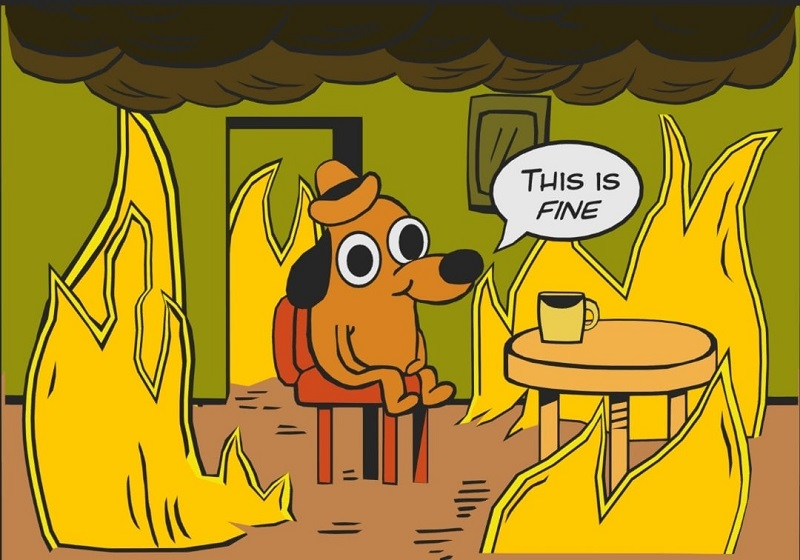
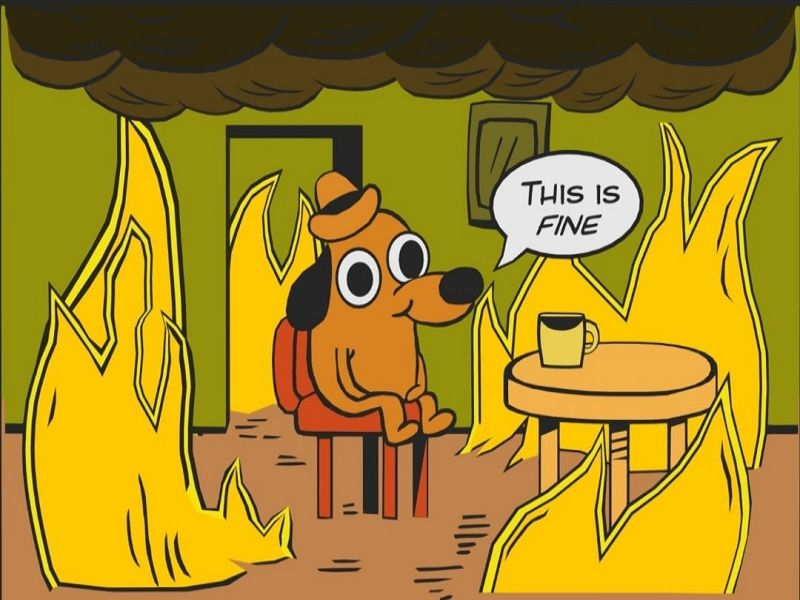
fix: buttons animation (Fri, Sep 15, 2023 00:32:38 AM)

diff --git a/cssMemeSlider/style.css b/cssMemeSlider/style.css
@@ -1,101 +1,133 @@
+@keyframes smoothscroll1 {
+    from, to { scroll-behavior: smooth; }
+}
+  
+@keyframes smoothscroll2 {
+    from, to { scroll-behavior: smooth; }
+}
+  
+html {
+    animation: smoothscroll1 2s;
+    scroll-behavior: smooth;
+    height: 100%;
+    display: table;
+    margin: 0 auto;
+}
+  
+html:focus-within {
+    animation-name: smoothscroll2;
+    scroll-behavior: smooth;
+}
+
 * {
 	padding: 0;
 	margin: 0;
 	border: 0;
 }
-
-html {
-    scroll-behavior: smooth;
-}
-
 body {
-    display: flex;
-    justify-content: center;
-    align-items: center;
+    height: 740px;
+    vertical-align: middle;
     color: #FFFFFF;
     overflow: hidden;
 }
 img {
     max-width: 100%;
     object-fit: cover;
-    border-radius: 10px;
+    border-radius: inherit;
 }
 .wrap  {
-    width: 860px;
-    height: 720px;
+    height: inherit;
     box-sizing: border-box;
     background-color: darkcyan;
-    border-radius: 0 0 10px 10px;
+    padding: 2vh 4vh;
 }
 .buttons {
     display: flex;
-    gap: 15px;
+    gap: 2vh;
     justify-self: end;
 }
 .buttons a {
-    width: 5px;
     display: inline-block;
     border-radius: 50%;
     color: yellow;
     background-color: yellow;
     border: outset;
-    padding: 10px;
+    padding: 1vh;
     margin: auto;
-}
-.buttons a:hover {
-    cursor: pointer;
+    text-decoration: none;
+}/*
+.buttons a button {
+    display: block;
+    padding: 1vh;
+    border-radius: 50%;
+}*/
+.linkInFokus:link {
     background-color: unset;
 }
+
+.linkOffFokus:link {
+    background-color: yellow;
+}
+.linkInFokus:hover {
+    cursor: pointer;
+    background-color: darkcyan;
+    color: white;
+}
+.linkOffFokus:hover {
+    cursor: pointer;
+    background-color: white;
+    color: white;
+}
+.buttons a:checked {
+    cursor: pointer;
+}
 .jpgWrap {
-    width: 800px;
-    height: 700px;
-    display: grid;
-    grid-template-columns: repeat(4, 1fr);
+    height: inherit;
     overflow: hidden;
-    margin: 20px 30px 0;
 }
-#mem1 {
-    width: 800px;
-    height: 600px;
-    border-radius: 10px;
+.link1:hover {
+    cursor: pointer;
+    background-color: yellow;
+    color: white;
 }
-#mem1:target {
-    animation: slide 2s forwards;
+.jpg {
+    border-radius: 1em;
+}
+.jpg div {
+    display: flex;
+    justify-content: space-between;
+    margin-top: 4vh;
 }
 #mem2 {
-    width: 800px;
-    height: 600px;
-    border-radius: 10px;
+    transform: translate(100%, -100%);
+}
+#mem3 {
+    transform: translate(200%, -200%);
+}
+#mem4 {
+    transform: translate(300%, -300%);
+}
+/*
+
+#mem1:target {
+    animation: slide 2s forwards;
 }
 #mem2:target {
     animation: slide 2s forwards;
 }
-#mem3 {
-    width: 800px;
-    height: 600px;
-    border-radius: 10px;
-}
 #mem3:target {
     animation: slide 2s forwards;
 }
-#mem3 img {
-    width: 800px;
-}
-#mem4 {
-    width: 800px;
-    height: 600px;
-    border-radius: 10px;
-}
 #mem4:target {
     animation: slide 2s forwards;
-}
+}*/
 .memText {
     display: flex;
     color: black;
     font-family: Arial, Helvetica, sans-serif;
-    font-size: 18px;
+    font-size: x-large;
     font-style: normal;
-    font-weight: 400;
+    font-weight: bold;
     line-height: normal;
 }
 @keyframes slide {
@@ -103,7 +135,7 @@ img {
       transform: translateX(0);
     }
     100% {
-      transform: translateX(-800px);
+      transform: translateX(-100%);
     }
   }
   

diff --git a/cssMemeSlider/index.html b/cssMemeSlider/index.html
@@ -9,28 +9,54 @@
 <body>
     <div class="wrap">
         <div class="jpgWrap">
-            <div class="jpg" id="mem4">
-                <img src="../cssMemeSlider/jpeg/fine.jpg" alt="fine" height="600">
-                <p class="memText">This is fine!</p>
-            </div>
             <div class="jpg" id="mem1">
-                <img src="../cssMemeSlider/jpeg/bag.jpg" alt="bug" height="600">
-                <p class="memText">When you fixed one bug in code</p>
+                <img src="../cssMemeSlider/jpeg/fine.jpg" alt="fine" height="600">
+                <div>
+                    <p class="memText">This is fine!</p>
+                    <nav class="buttons">
+                        <a class="linkInFokus" href="#mem1"></a>
+                        <a class="linkOffFokus" href="#mem2"></a>
+                        <a class="linkOffFokus" href="#mem3"></a>
+                        <a class="linkOffFokus" href="#mem4"></a>
+                    </nav>
+                </div>
             </div>
             <div class="jpg" id="mem2">
-                <img src="../cssMemeSlider/jpeg/pravilno.jpg" alt="screenshots" height="600">
-                <p class="memText">Take screenshots the right way</p>
+                <img src="../cssMemeSlider/jpeg/bag.jpg" alt="bug" height="600">
+                <div>
+                    <p class="memText">When you fixed one bug in code</p>
+                    <nav class="buttons">
+                        <a class="linkOffFokus" href="#mem1"></a>
+                        <a class="linkInFokus" href="#mem2"></a>
+                        <a class="linkOffFokus" href="#mem3"></a>
+                        <a class="linkOffFokus" href="#mem4"></a>
+                    </nav>
+                </div>
             </div>
             <div class="jpg" id="mem3">
-                <img src="../cssMemeSlider/jpeg/vovka.jpg" alt="fine" height="600">
-                <p class="memText">Does it work? Don't touch!</p>
+                <img src="../cssMemeSlider/jpeg/pravilno.jpg" alt="screenshots" height="600">
+                <div>
+                    <p class="memText">Take screenshots the right way</p>
+                    <nav class="buttons">
+                        <a class="linkOffFokus" href="#mem1"></a>
+                        <a class="linkOffFokus" href="#mem2"></a>
+                        <a class="linkInFokus" href="#mem3"></a>
+                        <a class="linkOffFokus" href="#mem4"></a>
+                    </nav>
+                </div>
             </div>
-            <nav class="buttons">
-                <a href="#mem1"></a>
-                <a href="#mem2"></a>
-                <a href="#mem3"></a>
-                <a href="#mem4"></a>
-            </nav>
+            <div class="jpg" id="mem4">
+                <img src="../cssMemeSlider/jpeg/vovka.jpg" alt="fine" height="600">
+                <div>
+                    <p class="memText">Does it work? Don't touch!</p>
+                    <nav class="buttons">
+                        <a class="linkOffFokus" href="#mem1"></a>
+                        <a class="linkOffFokus" href="#mem2"></a>
+                        <a class="linkOffFokus" href="#mem3"></a>
+                        <a class="linkInFokus" href="#mem4"></a>
+                    </nav>
+                </div>
+            </div>
         </div>
     </div>
 </body>
